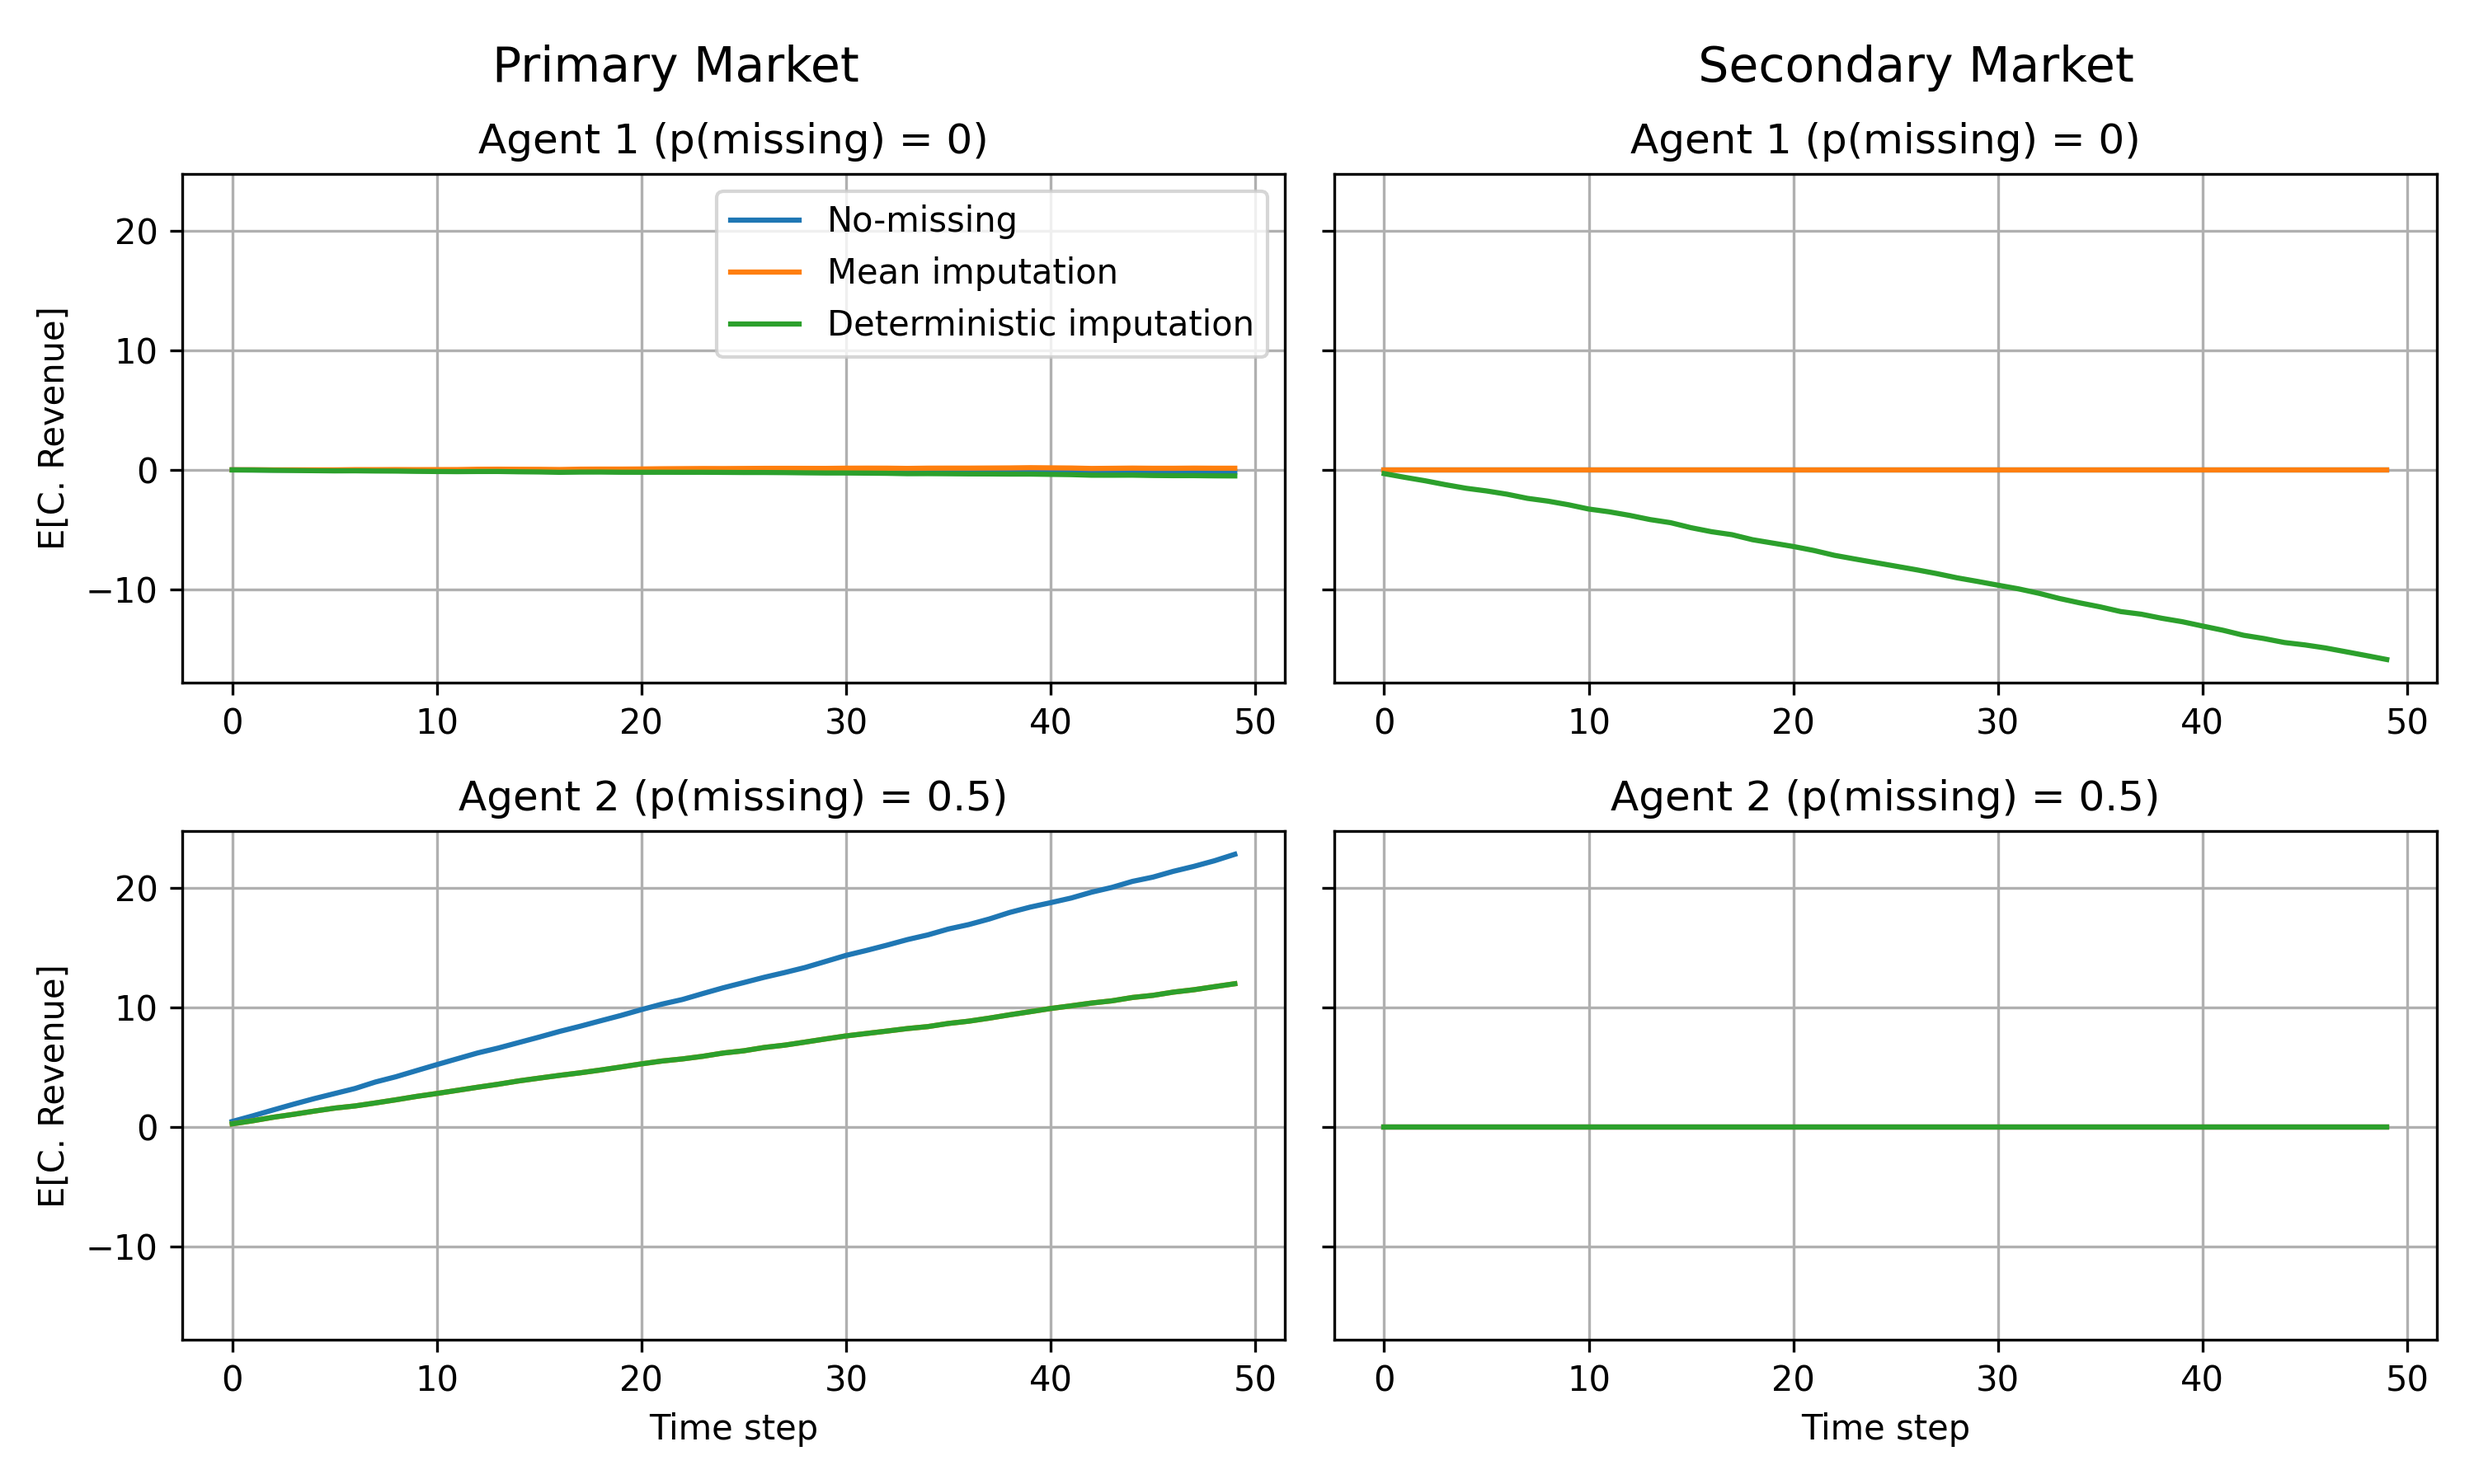
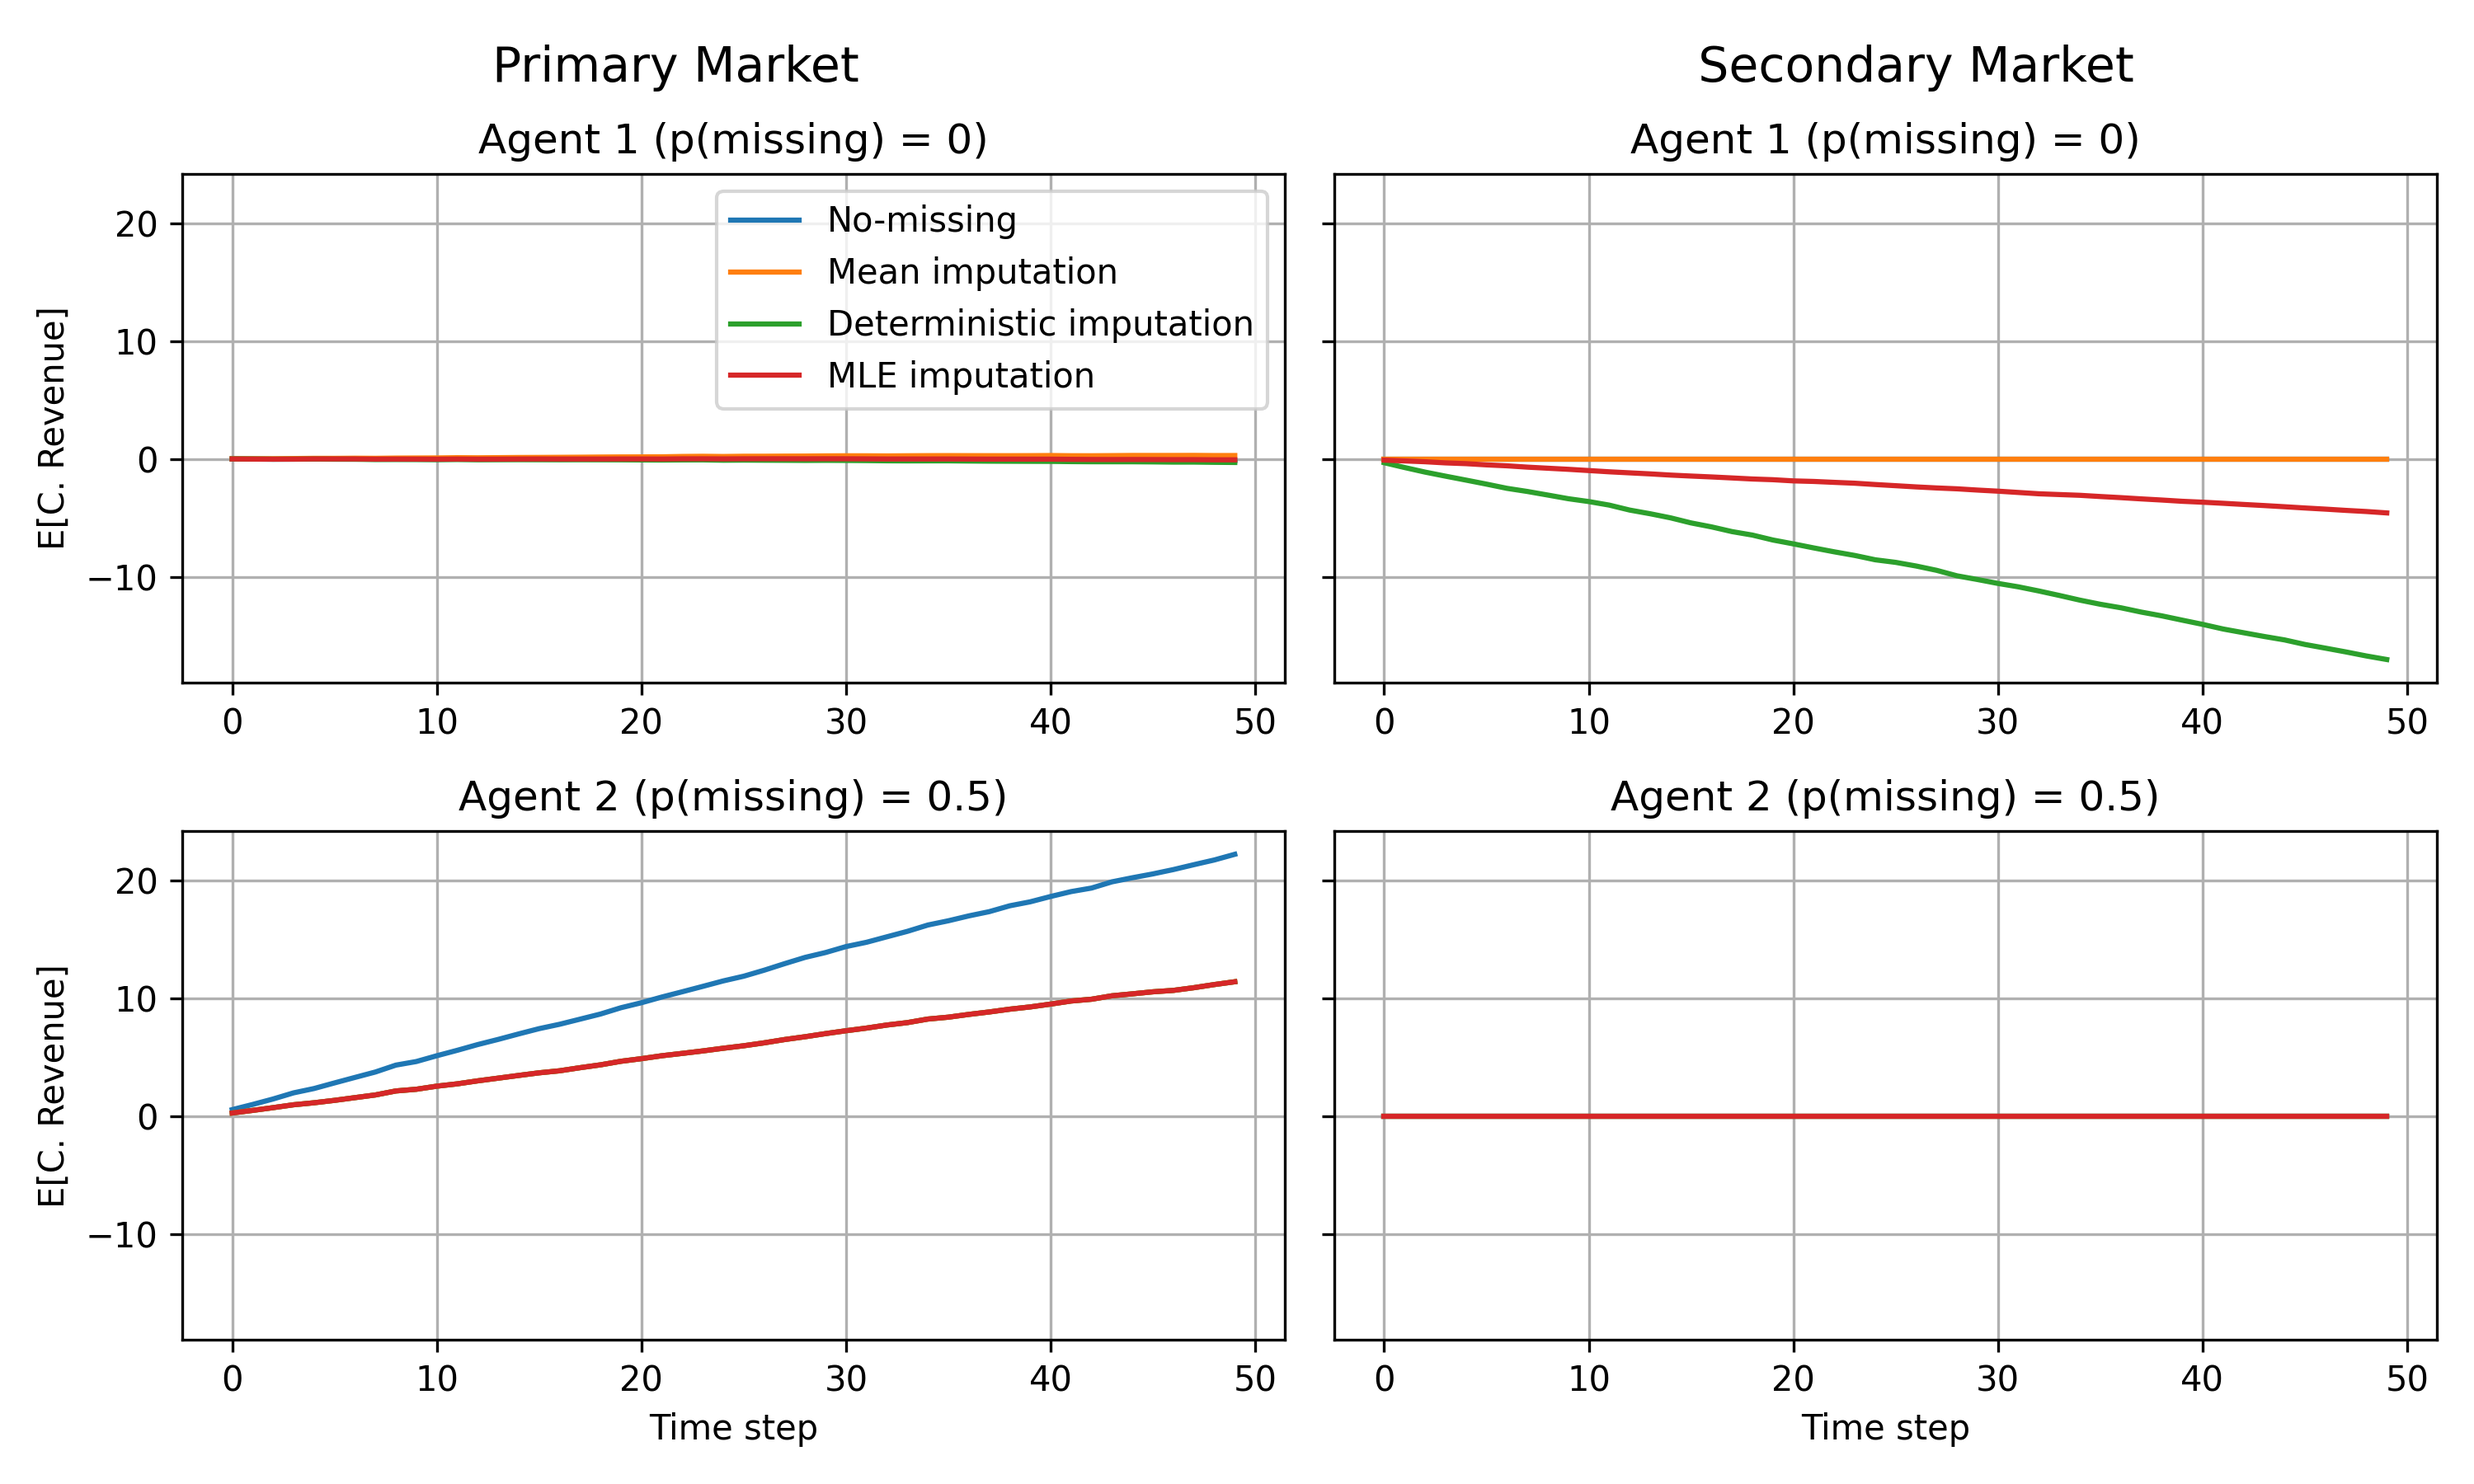
Add MLE to analysis

diff --git a/analytics/sim14-south-carolina.py b/analytics/sim14-south-carolina.py
@@ -124,7 +124,7 @@ if __name__ == "__main__":
         ImputationMethod.no: "No-missing",
         ImputationMethod.mean: "Mean imputation",
         ImputationMethod.ols: "Deterministic imputation",
-        ImputationMethod.blr: "Probabilistic imputation",
+        # ImputationMethod.blr: "Probabilistic imputation",
         ImputationMethod.mle: "MLE imputation",
     }
 
@@ -133,7 +133,7 @@ if __name__ == "__main__":
         ImputationMethod.mean,
         ImputationMethod.ols,
         # ImputationMethod.blr,
-        # ImputationMethod.mle,
+        ImputationMethod.mle,
         # ImputationMethod.gpr,
     ]
 
